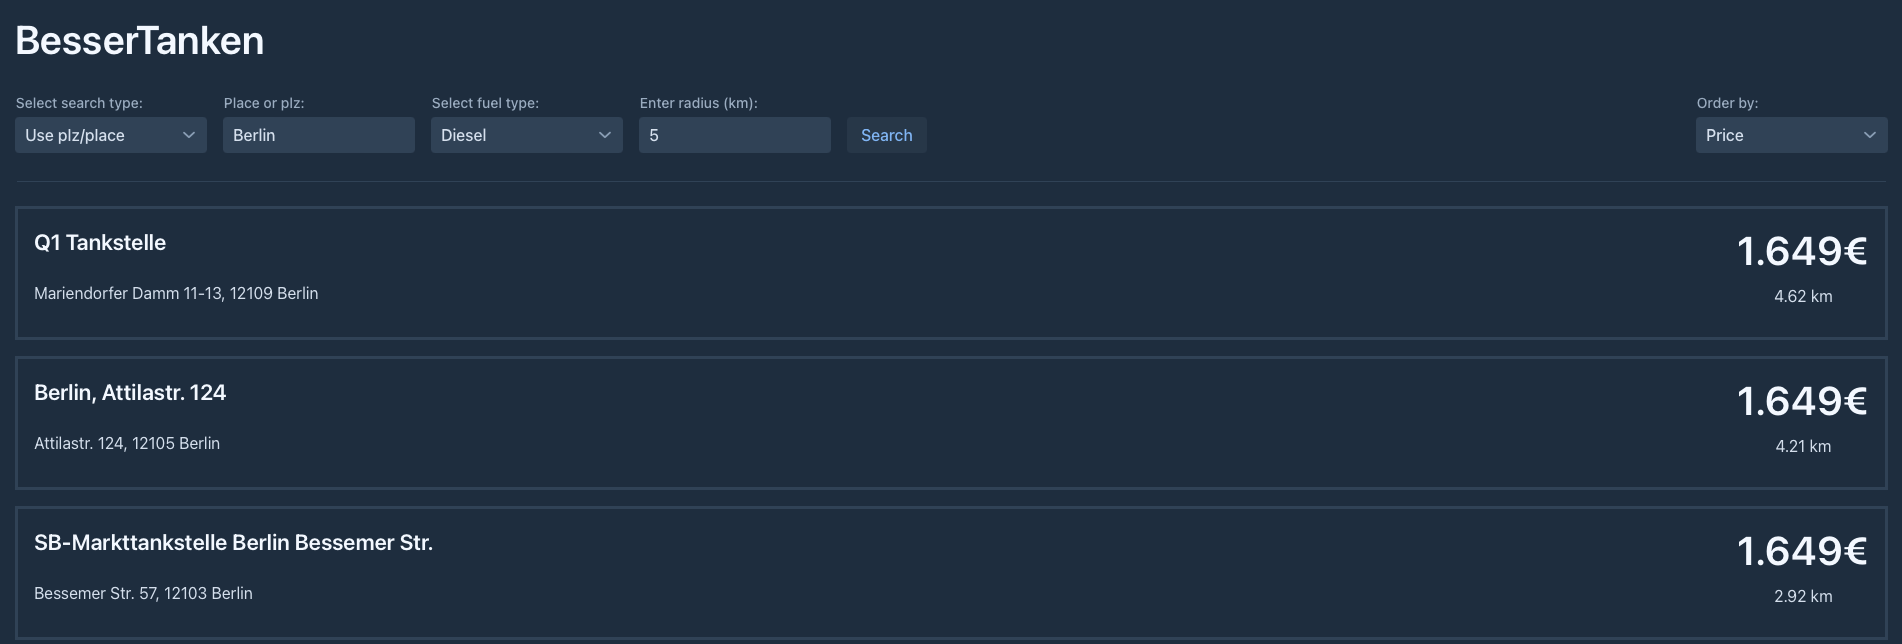
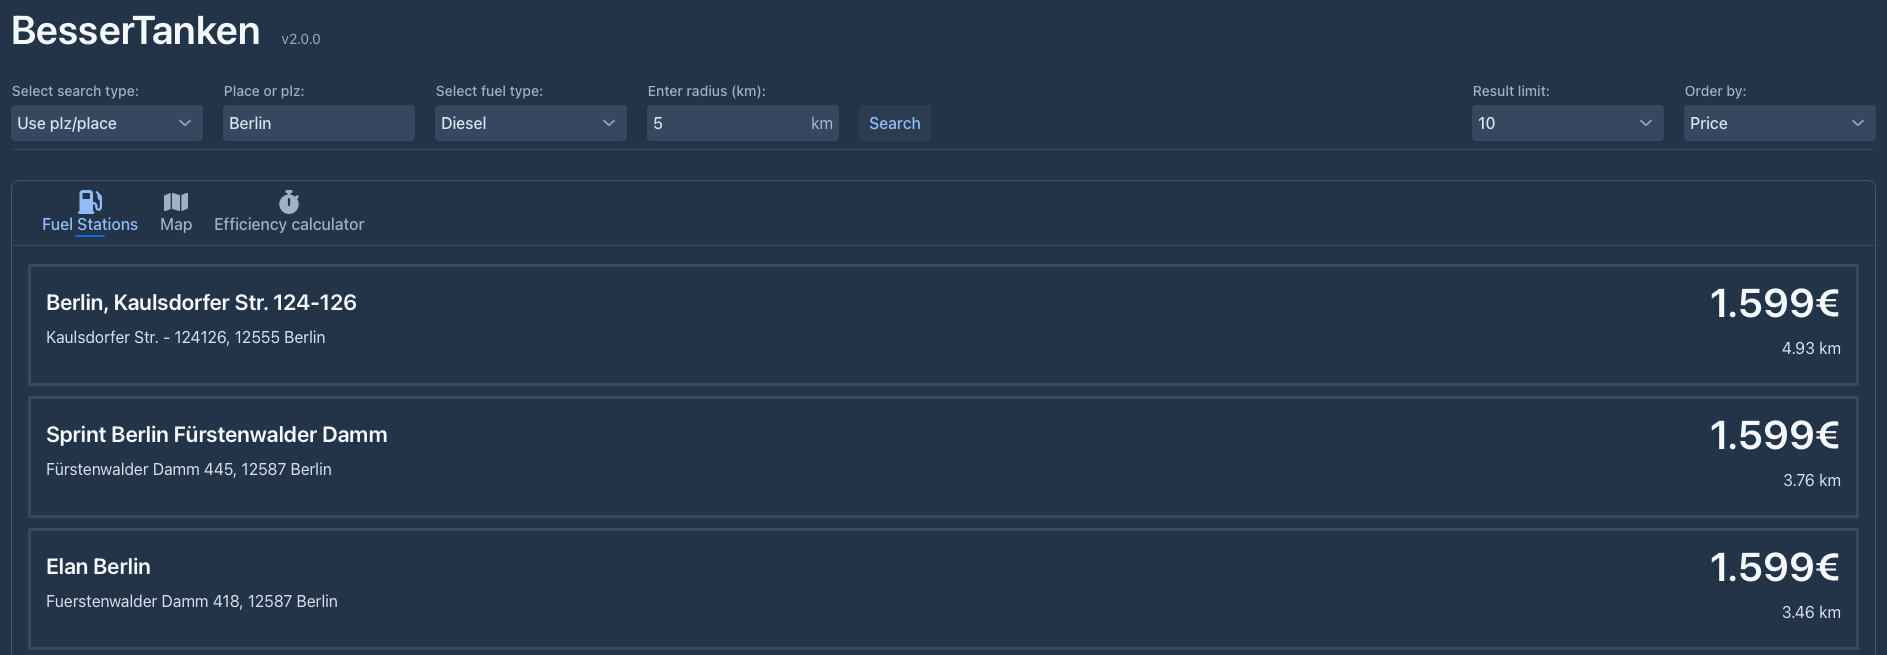
PlaTo-XX: last fixed and deployment prep

diff --git a/src/main/java/de/flix29/besserTanken/BesserTankenView.java b/src/main/java/de/flix29/besserTanken/BesserTankenView.java
@@ -172,7 +172,7 @@ public class BesserTankenView extends Div {
         var besserTankenName = new H1("BesserTanken");
         besserTankenName.getStyle().setMargin("0px");
 
-        var version = new Span(BesserTanken.getEnv().getProperty("bessertanken.version"));
+        var version = new Span("v" + BesserTanken.getEnv().getProperty("bessertanken.version"));
         version.getStyle().setFontSize("var(--lumo-font-size-s)");
         version.getStyle().setColor("var(--lumo-contrast-70pct)");
         version.getStyle().setMarginBottom("4px");
@@ -482,10 +482,10 @@ public class BesserTankenView extends Div {
         button.getStyle().setPadding("10px");
 
         button.addClickListener(event -> {
-            var resultsLayout = new Div(new H3("Result: "));
+            var resultsLayout = new Div(new H3("Results: "));
             resultsLayout.addClassName("efficiencyCalc_result");
             resultsLayout.getStyle().setMarginLeft("auto");
-            var fuelStations = new HashMap<>(calculateEfficiency(consumption.getValue(), amountGas.getValue()));
+            var fuelStations = new LinkedHashMap<>(calculateEfficiency(consumption.getValue(), amountGas.getValue()));
             removeComponentsByClassName(efficiencyLayout, "efficiencyCalc_result");
 
             fuelStations.entrySet().stream().limit(3).forEach(entry -> {
@@ -511,7 +511,7 @@ public class BesserTankenView extends Div {
         efficiencyLayout.addComponentAsFirst(optionsDiv);
     }
 
-    private java.util.Map<FuelStation, Double> calculateEfficiency(double consumption, double amountGas) {
+    private java.util.LinkedHashMap<FuelStation, Double> calculateEfficiency(double consumption, double amountGas) {
         var fuelStations = kraftstoffbilligerRequests
                 .getFuelStationsByLocation(currentLocation, FuelType.fromName(fuelTypeSelect.getValue()), 5).stream()
                 .filter(fuelStation -> fuelStation.getPrice() != 0.0)

diff --git a/src/main/java/de/flix29/besserTanken/EfficiencyService.java b/src/main/java/de/flix29/besserTanken/EfficiencyService.java
@@ -3,20 +3,18 @@ package de.flix29.besserTanken;
 import de.flix29.besserTanken.model.kraftstoffbilliger.FuelStation;
 import org.springframework.stereotype.Service;
 
-import java.util.HashMap;
-import java.util.List;
-import java.util.Map;
+import java.util.*;
 import java.util.stream.Collectors;
 
 @Service
 public class EfficiencyService {
 
-    public Map<FuelStation, Double> calculateMostEfficientFuelStation(double consumptionPer100Km, double amountGas, List<FuelStation> fuelStations) {
+    public LinkedHashMap<FuelStation, Double> calculateMostEfficientFuelStation(double consumptionPer100Km, double amountGas, List<FuelStation> fuelStations) {
         if(fuelStations == null || fuelStations.isEmpty()) {
-            return new HashMap<>();
+            return new LinkedHashMap<>();
         }
 
-        var map = new HashMap<FuelStation, Double>();
+        var map = new LinkedHashMap<FuelStation, Double>();
 
         fuelStations.forEach(fuelStation -> {
             var consumptionForDistance = fuelStation.getDistance().doubleValue() * (consumptionPer100Km / 100);
@@ -26,6 +24,6 @@ public class EfficiencyService {
 
         return map.entrySet().stream()
                 .sorted(Map.Entry.comparingByValue())
-                .collect(Collectors.toMap(Map.Entry::getKey, Map.Entry::getValue, (e1, e2) -> e1, HashMap::new));
+                .collect(Collectors.toMap(Map.Entry::getKey, Map.Entry::getValue, (e1, e2) -> e1, LinkedHashMap::new));
     }
 }

diff --git a/README.md b/README.md
@@ -6,7 +6,7 @@
 
 This app uses the data from the [Kraftstoffbilliger-Api](https://kraftstoffbilliger.de/mts-k_api) to get the cheapest 
 gas prices. To convert the german postal code and places to coordinates the app uses the 
-[OpenDataSoft-Api](https://public.opendatasoft.com/explore/dataset/georef-germany-postleitzahl/table/).
+[OpenDataSoft-Api](https://public.opendatasoft.com/explore/dataset/georef-germany-postleitzahl/table/). The results can be viewed on a map using the [Mapbox-Map](https://www.mapbox.com).
 
 ![image](src/main/resources/images/preview.png)
 
@@ -15,14 +15,16 @@ gas prices. To convert the german postal code and places to coordinates the app 
 ### Precondition:
 1. You need to be able to run java code on your device.
 2. You need to have a working internet connection.
-3. You need an active Api-Key from [Kraftstoffbilliger](https://kraftstoffbilliger.de/mts-k_api).
+3. You need an active Api-Key from [Kraftstoffbilliger](https://kraftstoffbilliger.de/mts-k_api) and [Mapbox](https://www.mapbox.com).
 
 ### Steps:
 1. Clone the repository.
 2. Open the project in your favorite IDE.
-3. In the `application.properties` file enter your Api-Key:
-   - Either replace the value `your-api-key` with your own key
+3. In the `application.properties` file enter your Api-Keys:
+   - Either replace the value `your-api-key` with your corresponding Api-Keys.
    - Or create a new file in the `resources` directory and name it `secret.properties`. In this file, 
-   add the following line: `api.key=your-api-key`.
+   add the following lines: 
+     - `secrets.kraftstoffBilliger.apikey=your-api-key`,
+     - `secrets.map.apikey=your-api-key`.
 4. Start the application using the `main method` in the `Main` class or by running ```mvn``` in the command line.
 5. By default, a browser window will open. If not, open your browser and navigate to `localhost:8080`.
